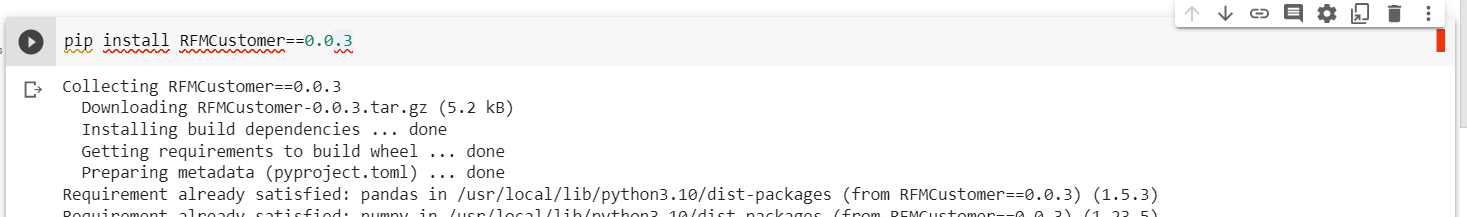
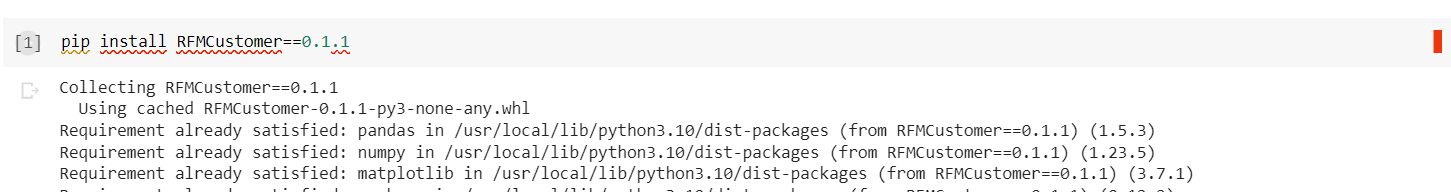
Versión del proyecto 0.1.1. Terminado

diff --git a/setup.py b/setup.py
@@ -3,14 +3,14 @@ from setuptools import find_packages, setup
 
 HERE = pathlib.Path(__file__).parent
 
-VERSION = '0.0.3'
+VERSION = '0.1.1'
 PACKAGE_NAME = 'RFMCustomer'
 AUTHOR = 'Sebastian Marat Urdanegui Bisalaya'
 AUTHOR_EMAIL = 'sebasurdanegui@gmail.com'
 URL = 'https://github.com/SebastianUrdaneguiBisalaya/Segmentacion-RFM'
 
 LICENSE = 'MIT'
-DESCRIPTION = 'Librería para realizar una segmentación RFM.'
+DESCRIPTION = 'Library for creating RFM Segmentation in Python.😋'
 LONG_DESC_TYPE = "text/markdown"
 
 

diff --git a/RFMCustomer/RFMCustomer.py b/RFMCustomer/RFMCustomer.py
@@ -94,7 +94,7 @@ class CustomerSegmentation:
         plt.show()
     
     def RFMAnalysisByCategory(rfm):
-        rfm_group = round(rfm_group[["Recency", "Frequency", "Monetary"]],2)
+        rfm_group = round(rfm[["Recency", "Frequency", "Monetary"]],2)
         fig = plt.figure(figsize=(15,8))
         ax1 = fig.add_subplot(2,2,1)
         ax1.bar(rfm_group.index, rfm_group["Recency"].sort_values(ascending = False), color = '#C79FEF')
